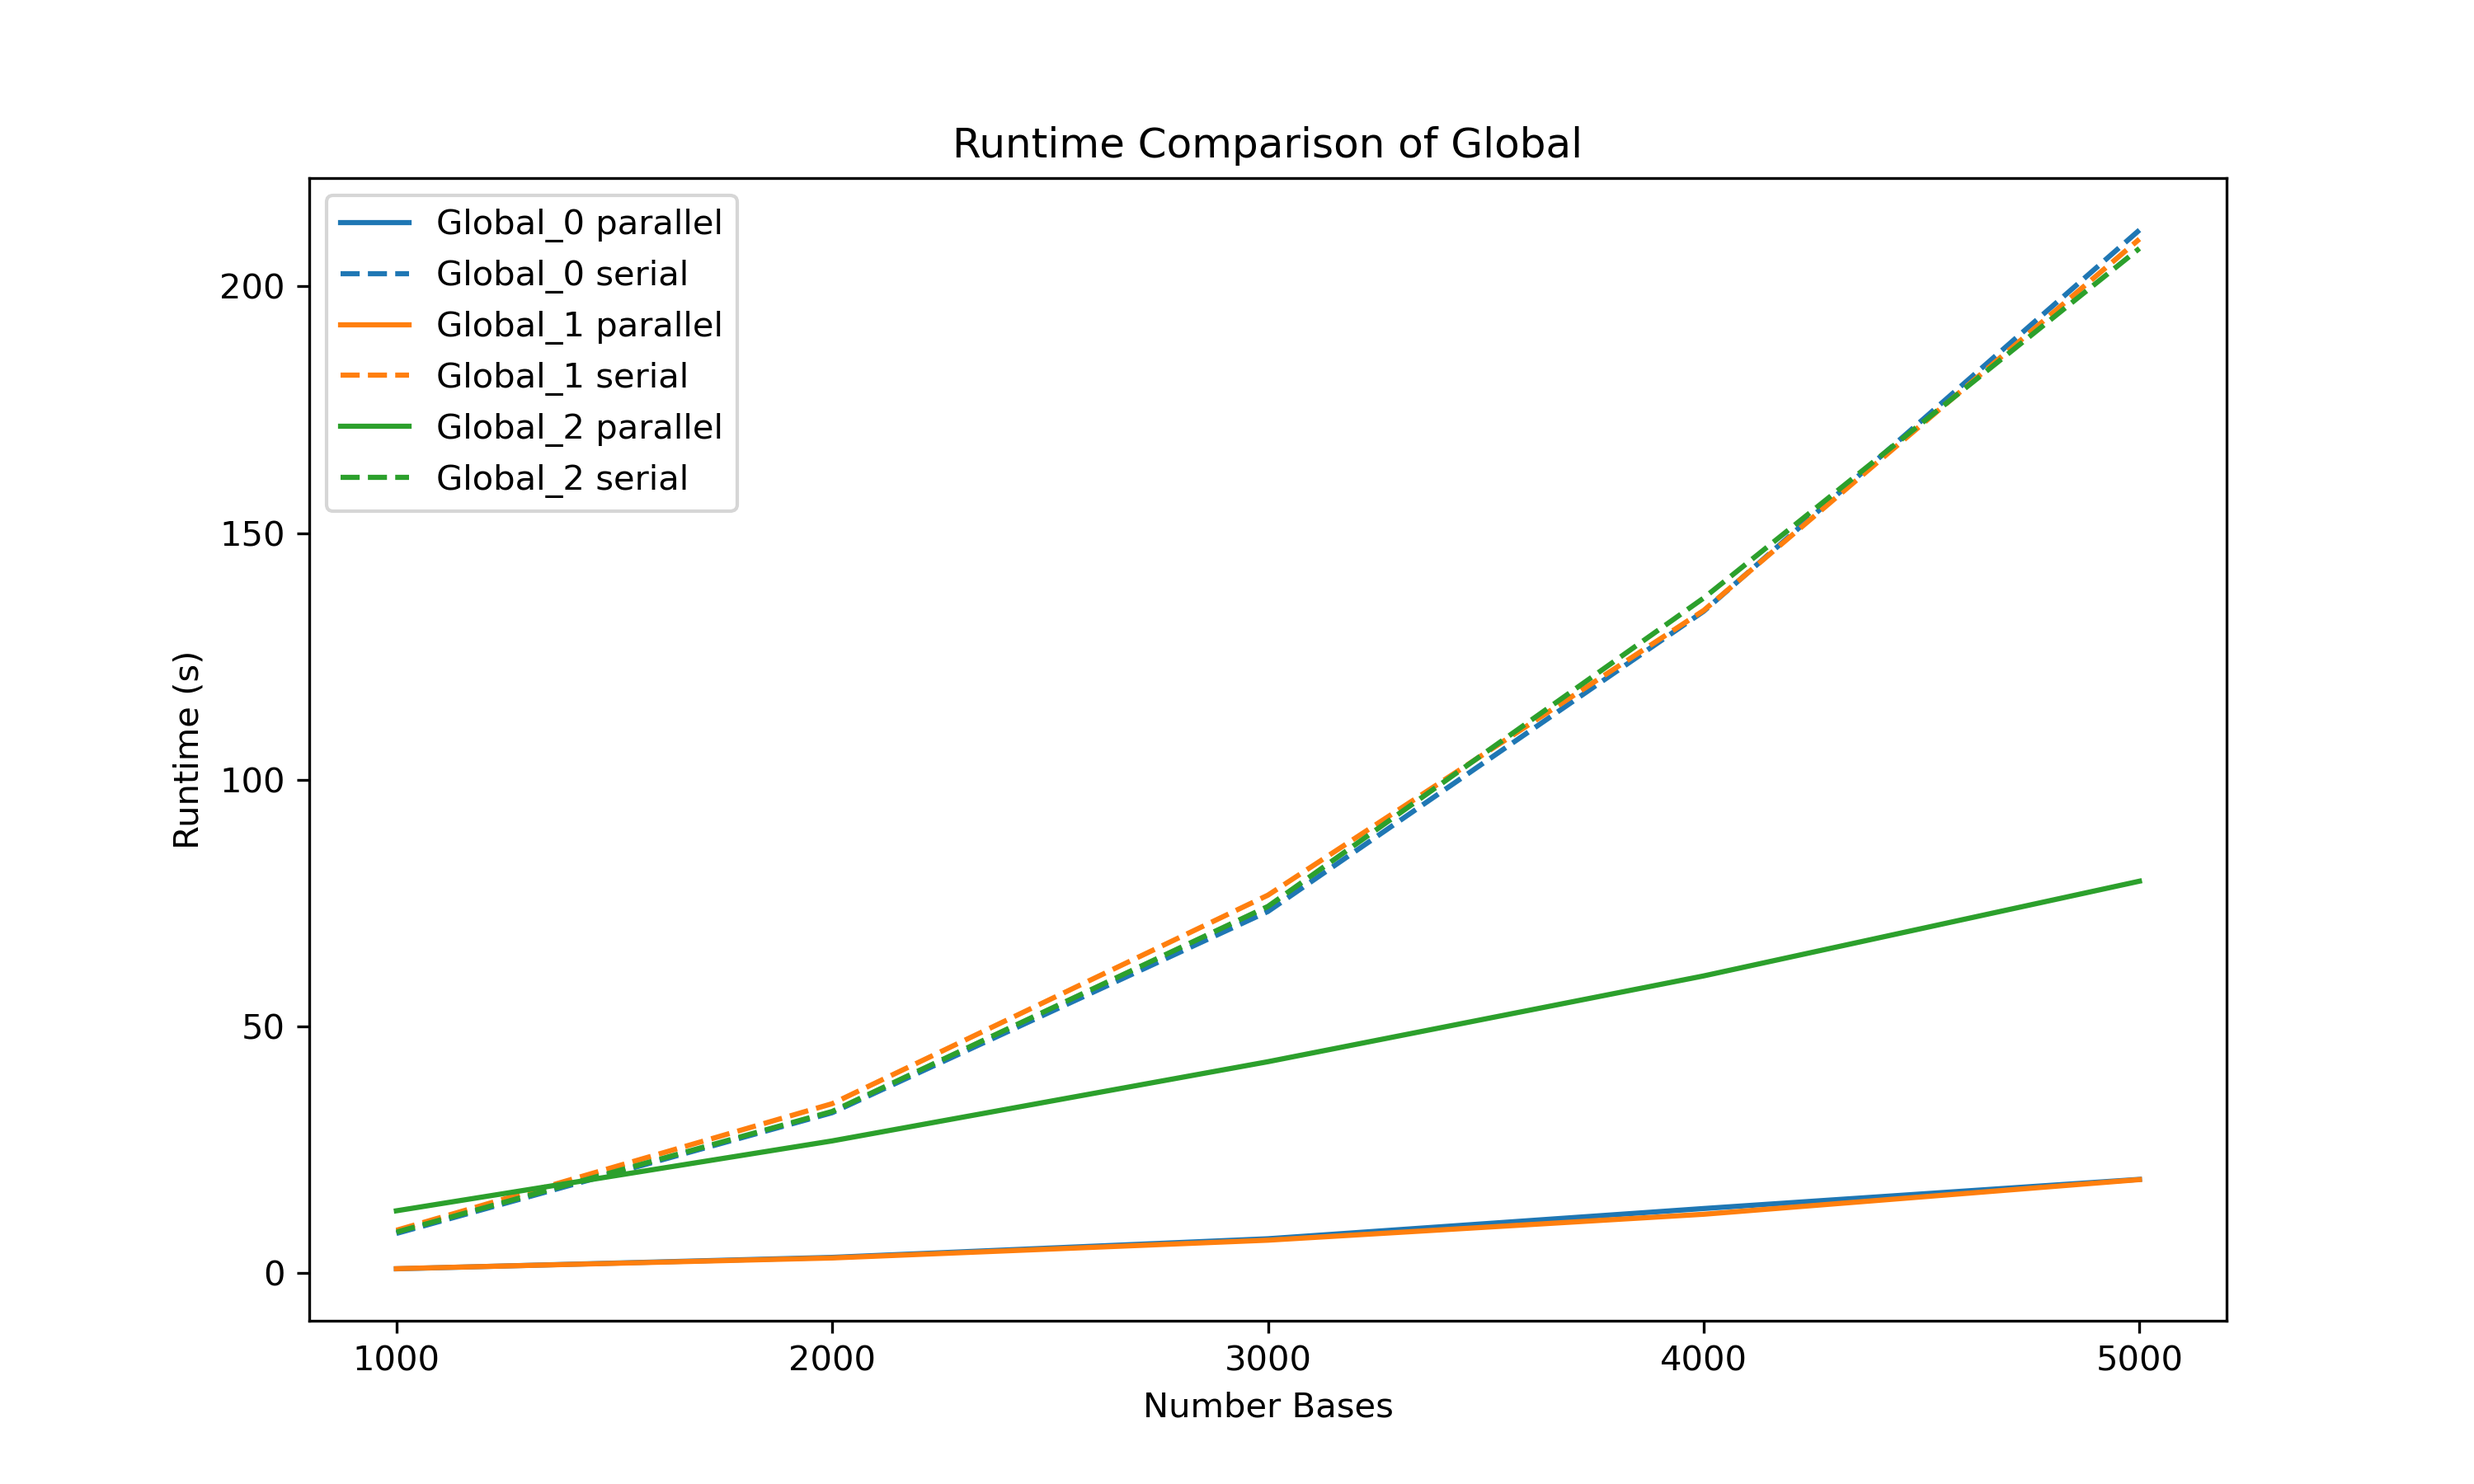
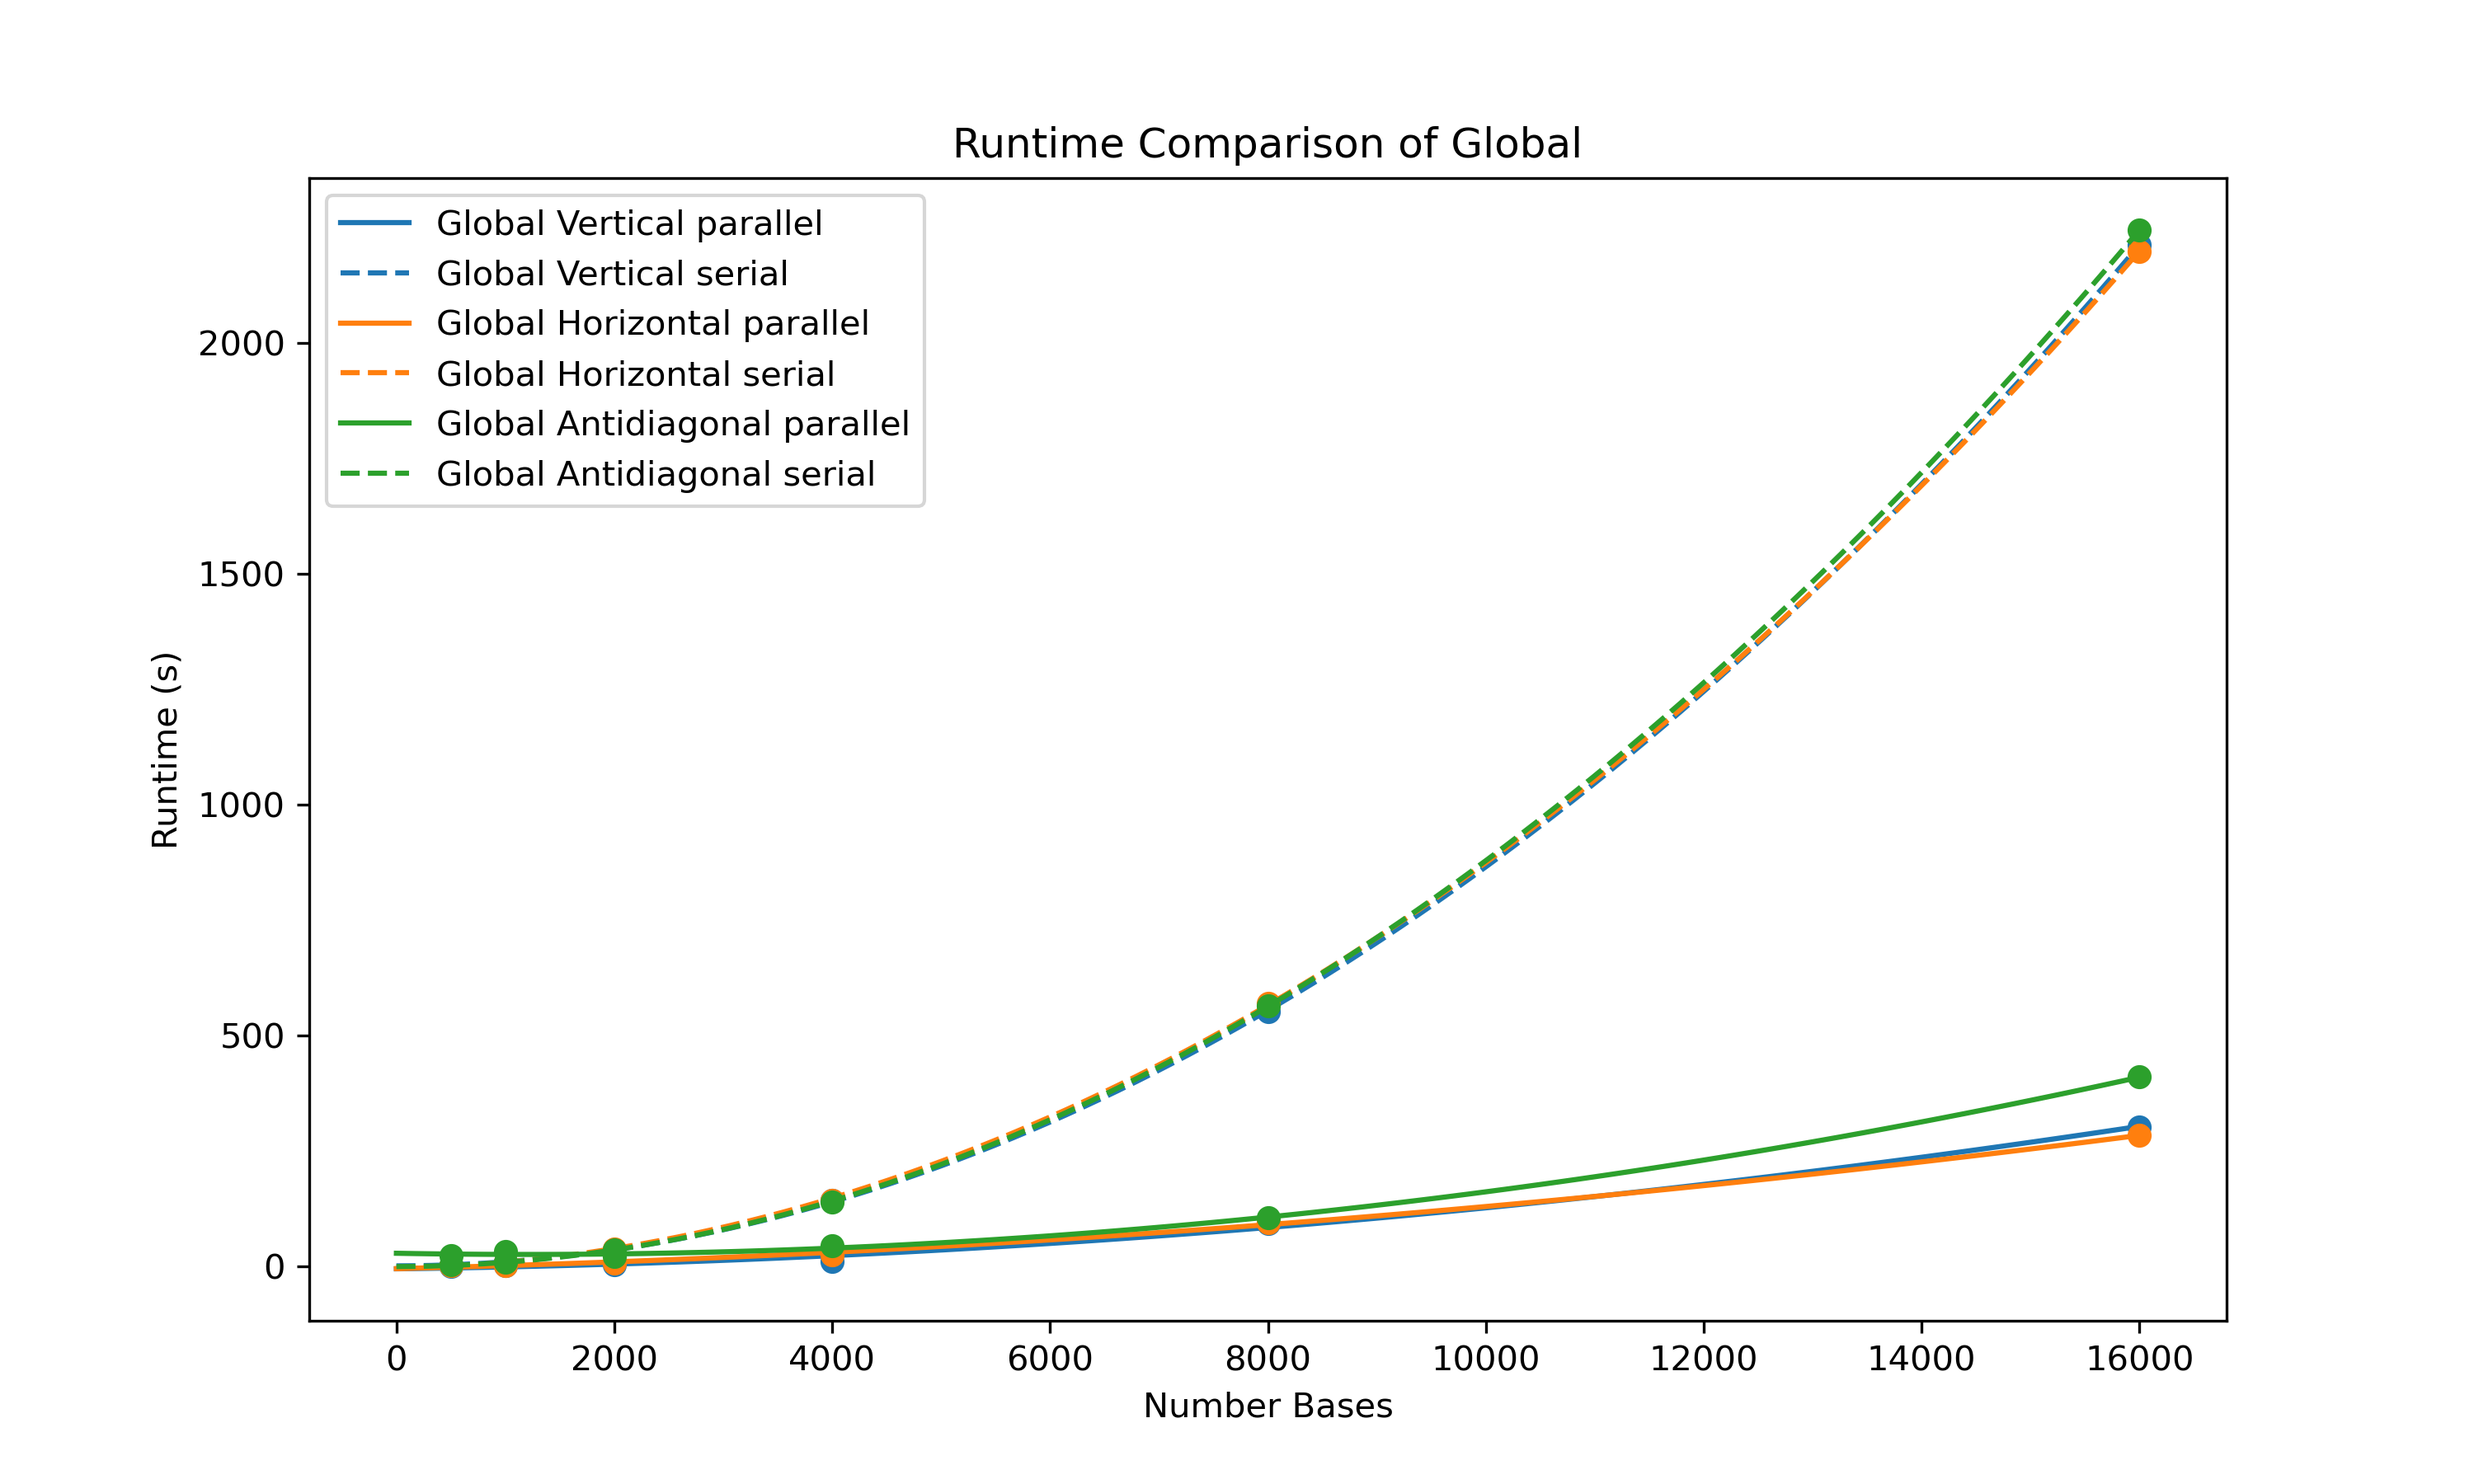
new graphs and make_graphs.py with fitting a quadratic equation

diff --git a/make_graphs.py b/make_graphs.py
@@ -3,6 +3,12 @@ import matplotlib.pyplot as plt
 import pandas as pd
 import numpy as np
 import matplotlib.colors as mcolors
+from scipy.optimize import curve_fit
+
+
+def fitting_equation(x,a,b,c):
+    y = a*(x**2) + b*x + c
+    return y
 
 # Load results from CSV
 data_parallel = pd.read_csv('runtime_results_parallel.csv', skiprows=1, names=['test_type','test_length_file', 'time'])
@@ -10,6 +16,14 @@ data_not_parallel = pd.read_csv('runtime_results_not_parallel.csv', skiprows=1, 
 
 method_types = ['Hirschberg','Local', 'Global', 'Affine']
 colors = list(mcolors.TABLEAU_COLORS.values())
+
+names = {
+    0: 'Vertical',
+    1: 'Horizontal',
+    2: 'Antidiagonal',
+}
+
+results = {}
 
 for method in method_types:
     fig = plt.figure(figsize=(10, 6))
@@ -29,11 +43,22 @@ for method in method_types:
             method_data_parallel = method_data_parallel.sort_values(by='test_length_file')
             method_data_not_parallel = method_data_not_parallel.sort_values(by='test_length_file')
 
-            plt.plot(method_data_parallel['test_length_file'], method_data_parallel['time'], color=color_base, label=f'{method}_{mode} parallel', linestyle='-')
-            plt.plot(method_data_not_parallel['test_length_file'], method_data_not_parallel['time'], color=color_base, label=f'{method}_{mode} serial', linestyle='--')
+            popt_parallel, pcov_parallel = curve_fit(fitting_equation, method_data_parallel['test_length_file'], method_data_parallel['time'], maxfev=20000)
+            popt_nonparallel, pcov_nonparallel = curve_fit(fitting_equation, method_data_not_parallel['test_length_file'], method_data_not_parallel['time'],  maxfev=20000)
+            
+            results[f'{method}{mode}'] = (popt_parallel,popt_nonparallel)
+            length = np.linspace(0, 16000, 100)
+            parallel_fit = fitting_equation(length, *popt_parallel)
+            nonparallel_fit = fitting_equation(length, *popt_nonparallel)
+
+            plt.plot(method_data_parallel['test_length_file'], method_data_parallel['time'], 'o', color=color_base)
+            plt.plot(length, parallel_fit, linestyle='-', color=color_base, label=f'{method} {names[mode]} parallel')
+
+            plt.plot(method_data_not_parallel['test_length_file'], method_data_not_parallel['time'],'o', color=color_base)
+            plt.plot(length, nonparallel_fit, linestyle='--', color=color_base, label=f'{method} {names[mode]} serial')
+
         plt.xlabel("Number Bases")
         plt.ylabel("Runtime (s)")
-        plt.xticks(np.linspace(1000, 5000, 5).astype(int))
         plt.title(f"Runtime Comparison of {method}")
         plt.legend()
         plt.savefig(f'runtime_plot_{method}.png', format='png', dpi=300)
@@ -47,15 +72,28 @@ for method in method_types:
         method_data_not_parallel['test_length_file'] = method_data_not_parallel['test_length_file'].str.extract(r'(\d+)').astype(int)
     
         # Sort by input length
-        method_data_parallel = method_data_parallel.sort_values(by='test_length_file')
-        method_data_not_parallel = method_data_not_parallel.sort_values(by='test_length_file')
-        plt.plot(method_data_parallel['test_length_file'], method_data_parallel['time'], color=color_base, label=f'{method} parallel', linestyle='-')
-        plt.plot(method_data_not_parallel['test_length_file'], method_data_not_parallel['time'], color=color_base, label=f'{method} serial', linestyle='--')
-    
+        popt_parallel, pcov_parallel = curve_fit(fitting_equation, method_data_parallel['test_length_file'], method_data_parallel['time'], maxfev=20000)
+        popt_nonparallel, pcov_nonparallel = curve_fit(fitting_equation, method_data_not_parallel['test_length_file'], method_data_not_parallel['time'],  maxfev=20000)
+            
+        results[method] = (popt_parallel,popt_nonparallel)
+
+        length = np.linspace(0, 16000, 100)
+        parallel_fit = fitting_equation(length, *popt_parallel)
+        nonparallel_fit = fitting_equation(length, *popt_nonparallel)
+
+        plt.plot(method_data_parallel['test_length_file'], method_data_parallel['time'], 'o', color=color_base)
+        plt.plot(length, parallel_fit, linestyle='-', color=color_base, label=f'{method} serial')
+
+        plt.plot(method_data_not_parallel['test_length_file'], method_data_not_parallel['time'],'o', color=color_base)
+        plt.plot(length, nonparallel_fit, linestyle='--', color=color_base, label=f'{method} parallel')
+
         plt.xlabel("Number Bases")
         plt.ylabel("Runtime (s)")
-        plt.xticks(np.linspace(1000, 5000, 5).astype(int))
         plt.title(f"Runtime Comparison of {method}")
         plt.legend()
         plt.savefig(f'runtime_plot_{method}.png', format='png', dpi=300)
+
+df = pd.DataFrame(results)
+
+df.to_csv("output_results.csv", index=False)
     

diff --git a/run_data.py b/run_data.py
@@ -7,14 +7,14 @@ import pandas as pd
 from data_gen import generate_test_strings, generate_genomic_strings
 
 # Define paths and parameters
-base_length = 1000  # Starting length of the test strings
+base_length = 500  # Starting length of the test strings
 num_changes = 10  # Number of insertions/deletions/substitutions
 num_tests = 6  # Number of test string pairs to generate - 1
 num_pairs = 1
 penalty_file = "penalty.csv"  # Path to penalty function CSV
 
-lengths = [(base_length * i) for i in range(1, num_tests)]
-changes = [(num_changes * 2 * i) for i in range(1, num_tests)]
+lengths = [(base_length * (2 **i)) for i in range(0, num_tests)]
+changes = [((num_changes * 2 * i) + 10) for i in range(0, num_tests)]
 
 input_files = []
 for i, length in enumerate(lengths):
@@ -70,11 +70,12 @@ alignment_methods = [
     },
 ]
 
-"""{
+"""
+{
         "name": "Four Russians",
         "command": lambda input_file: f"./build/four_russians {input_file} {10}"
-    }"""
-
+    }
+"""
 
 # Run each method on each input file and record runtime
 results = []
@@ -96,7 +97,7 @@ for method in alignment_methods:
         print(f"{method['name']} on {input_file} completed in {runtime:.4f} seconds")
 
 # Save results to CSV
-output_csv = "runtime_results_parallel.csv"
+output_csv = "runtime_results_not_parallel.csv"
 with open(output_csv, 'w', newline='') as csvfile:
     fieldnames = ["method", "input_file", "runtime"]
     writer = csv.DictWriter(csvfile, fieldnames=fieldnames)
